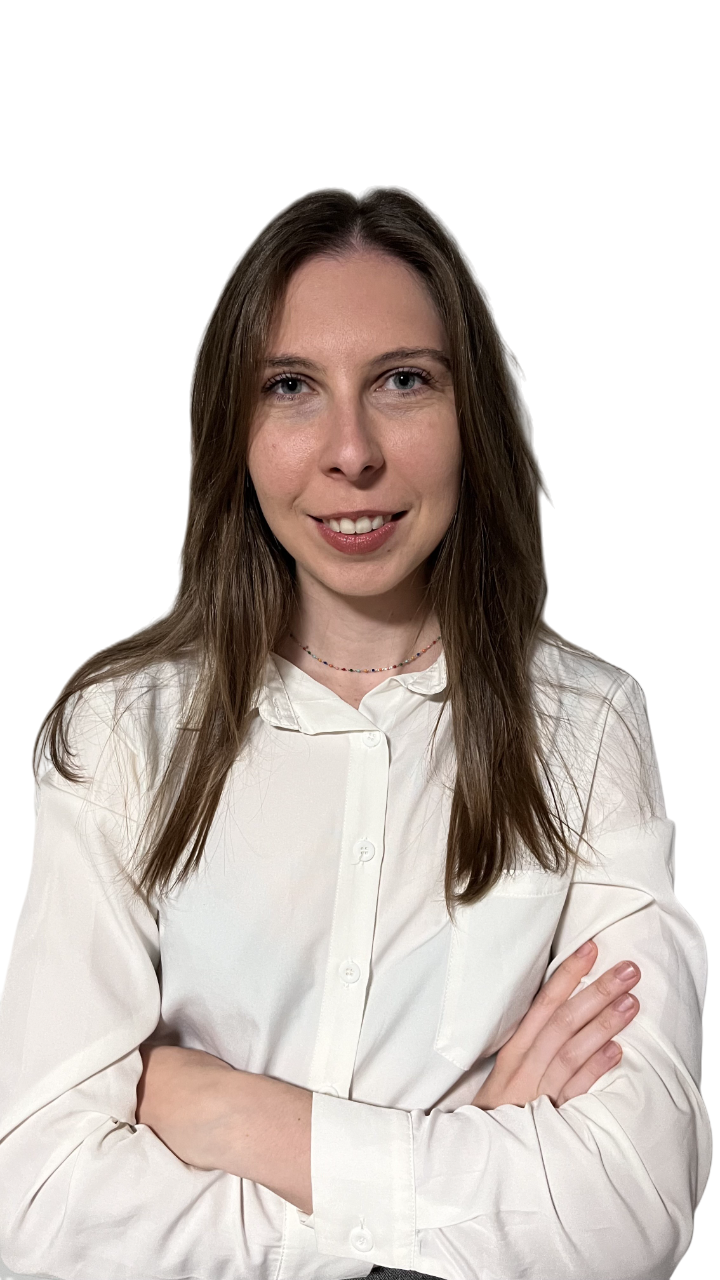
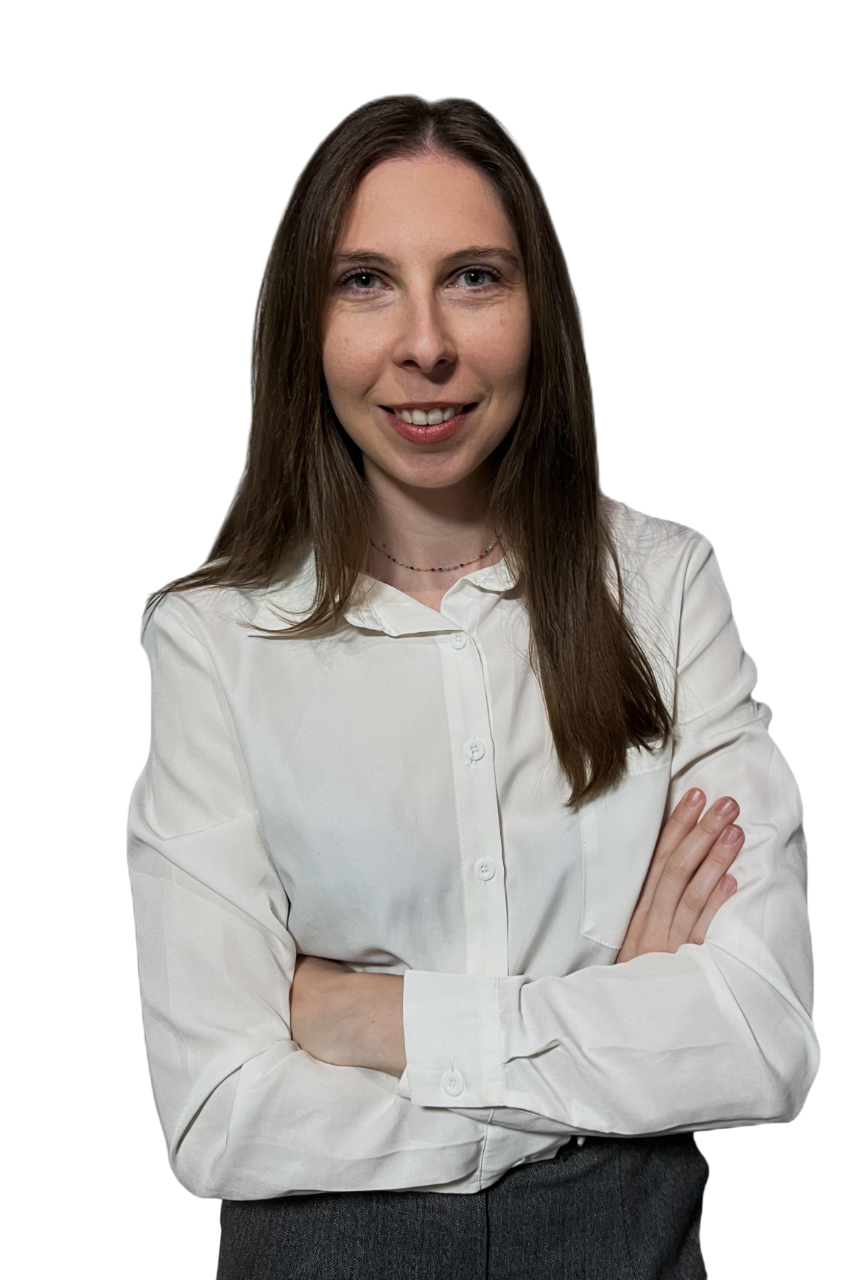
chore: foto de perfil definitiva y enlace correcto a linkedin

diff --git a/src/components/ui/CTAButtons.vue b/src/components/ui/CTAButtons.vue
@@ -32,7 +32,7 @@ import { Linkedin, Mail } from 'lucide-vue-next'
 defineProps({
   urlLinkedin: {
     type: String,
-    default: 'http://linkedin.com/in/mª-josé-muñoz-aroca-75151716b'
+    default: "https://www.linkedin.com/in/m%C2%AA-jos%C3%A9-mu%C3%B1oz-aroca-75151716b/"
   }
 })
 </script>

diff --git a/src/components/secciones/InicioSeccion.vue b/src/components/secciones/InicioSeccion.vue
@@ -25,7 +25,7 @@
             <KeywordsList :palabras-clave="palabrasClave" />
             
             <!-- Botones de CTA -->
-            <CTAButtons url-linkedin="https://linkedin.com" />
+            <CTAButtons />
           </div>
 
           <!-- ===== COLUMNA DERECHA: Imagen ===== -->
